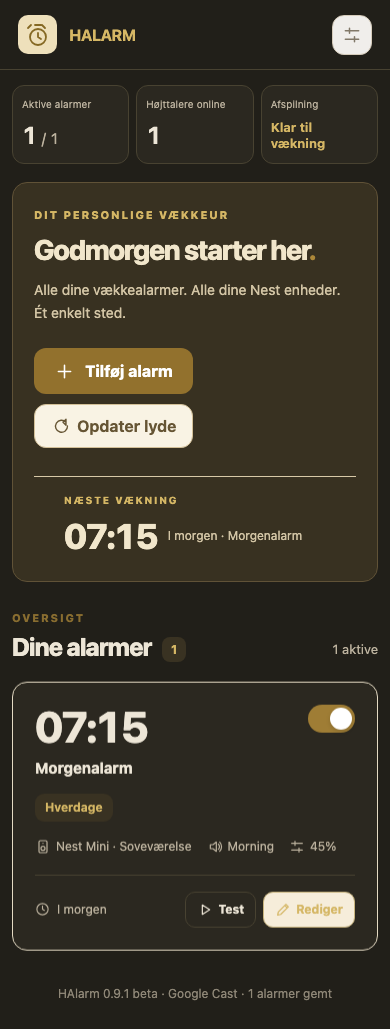
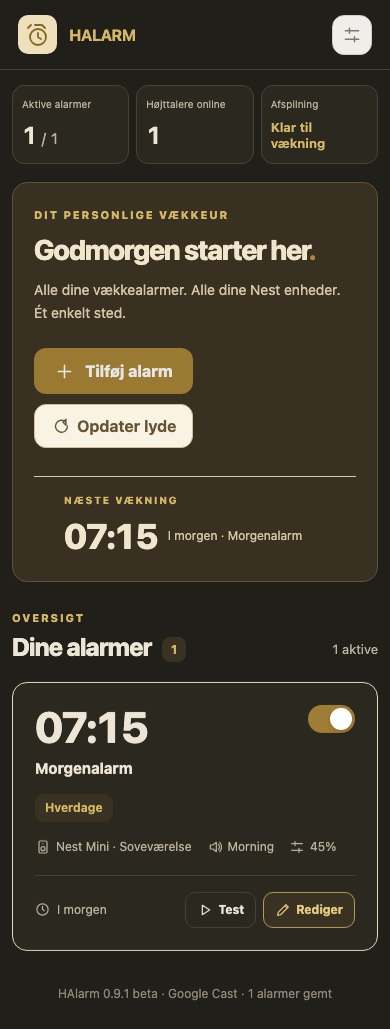
Improve dark mode hover and accent contrast

diff --git a/custom_components/halarm/frontend/halarm.js b/custom_components/halarm/frontend/halarm.js
@@ -384,7 +384,7 @@ button:focus-visible,input:focus-visible,select:focus-visible{outline:3px solid 
 .overview>div{background:var(--panel);border:1px solid var(--line);border-radius:12px;padding:17px 20px;display:grid;gap:9px}
 .overview span{font-size:12px;color:var(--muted)}.overview strong{font-size:27px;font-variant-numeric:tabular-nums;font-weight:650}.overview small{font-size:15px;color:var(--muted);font-weight:400}.overview .status-value{font-size:18px;align-self:center;color:var(--blue)}
 .widget-orbit,.hero::after{display:none}.hero-widget{border-left:1px solid #d7c9a7;padding-left:30px}.alarm-time,.widget-time{font-variant-numeric:tabular-nums}
-@media(prefers-color-scheme:dark){:host{--ink:#ede6d7;--muted:#bdb39f;--line:#484231;--bg:#211f19;--panel:#2b2820;--soft:#393222;--blue:#d5b765;--blue-dark:#b69a4d;color:var(--ink)}.hero{background:#383121;color:#f1e6cb;border-color:#605237}.hero-description,.widget-caption{color:#d3c5a5}.hero .eyebrow,.widget-label,.widget-glyph,.brand,.alarm-days,.mini.edit{color:#d5b765}.mini,.icon-button,.secondary,.notice{background:var(--panel);color:var(--ink);border-color:var(--line)}.settings-box,.volume-panel{background:var(--soft)}.diag-log{background:var(--panel);color:var(--ink);border-color:var(--line)}.primary,.day-chip.selected{color:#241f14;background:#d5b765}.time-input{color-scheme:dark}}
+@media(prefers-color-scheme:dark){:host{--ink:#ede6d7;--muted:#bdb39f;--line:#484231;--bg:#211f19;--panel:#2b2820;--soft:#393222;--blue:#d5b765;--blue-dark:#b69a4d;color:var(--ink)}.hero{background:#383121;color:#f1e6cb;border-color:#605237}.hero-description,.widget-caption{color:#d3c5a5}.hero .eyebrow,.widget-label,.widget-glyph,.brand,.alarm-days,.mini.edit{color:#d5b765}.mini,.icon-button,.secondary,.notice{background:var(--panel);color:var(--ink);border-color:var(--line)}.settings-box,.volume-panel{background:var(--soft)}.diag-log{background:var(--panel);color:var(--ink);border-color:var(--line)}.primary,.hero .primary,.day-chip.selected{color:#241f14;background:#d5b765}.mini:hover,.icon-button:hover,.secondary:hover{background:var(--soft);color:#e8cb83;border-color:#b59a54}.eyebrow.dark{color:#d5b765}.hero .primary:hover{background:#e8cb83}.time-input{color-scheme:dark}}
 @media(max-width:590px){.overview{gap:7px}.overview>div{padding:12px 9px}.overview span{font-size:10px}.overview strong{font-size:24px}.overview .status-value{font-size:13px}.hero-widget{border-left:0;border-top:1px solid #d7c9a7;padding-top:17px}.topbar{padding:0 18px}.main{padding:15px 12px 28px}.hero{padding:25px 21px;border-radius:15px}}
 `;
 if (!customElements.get("halarm-app")) customElements.define("halarm-app", AlarmPanel);
